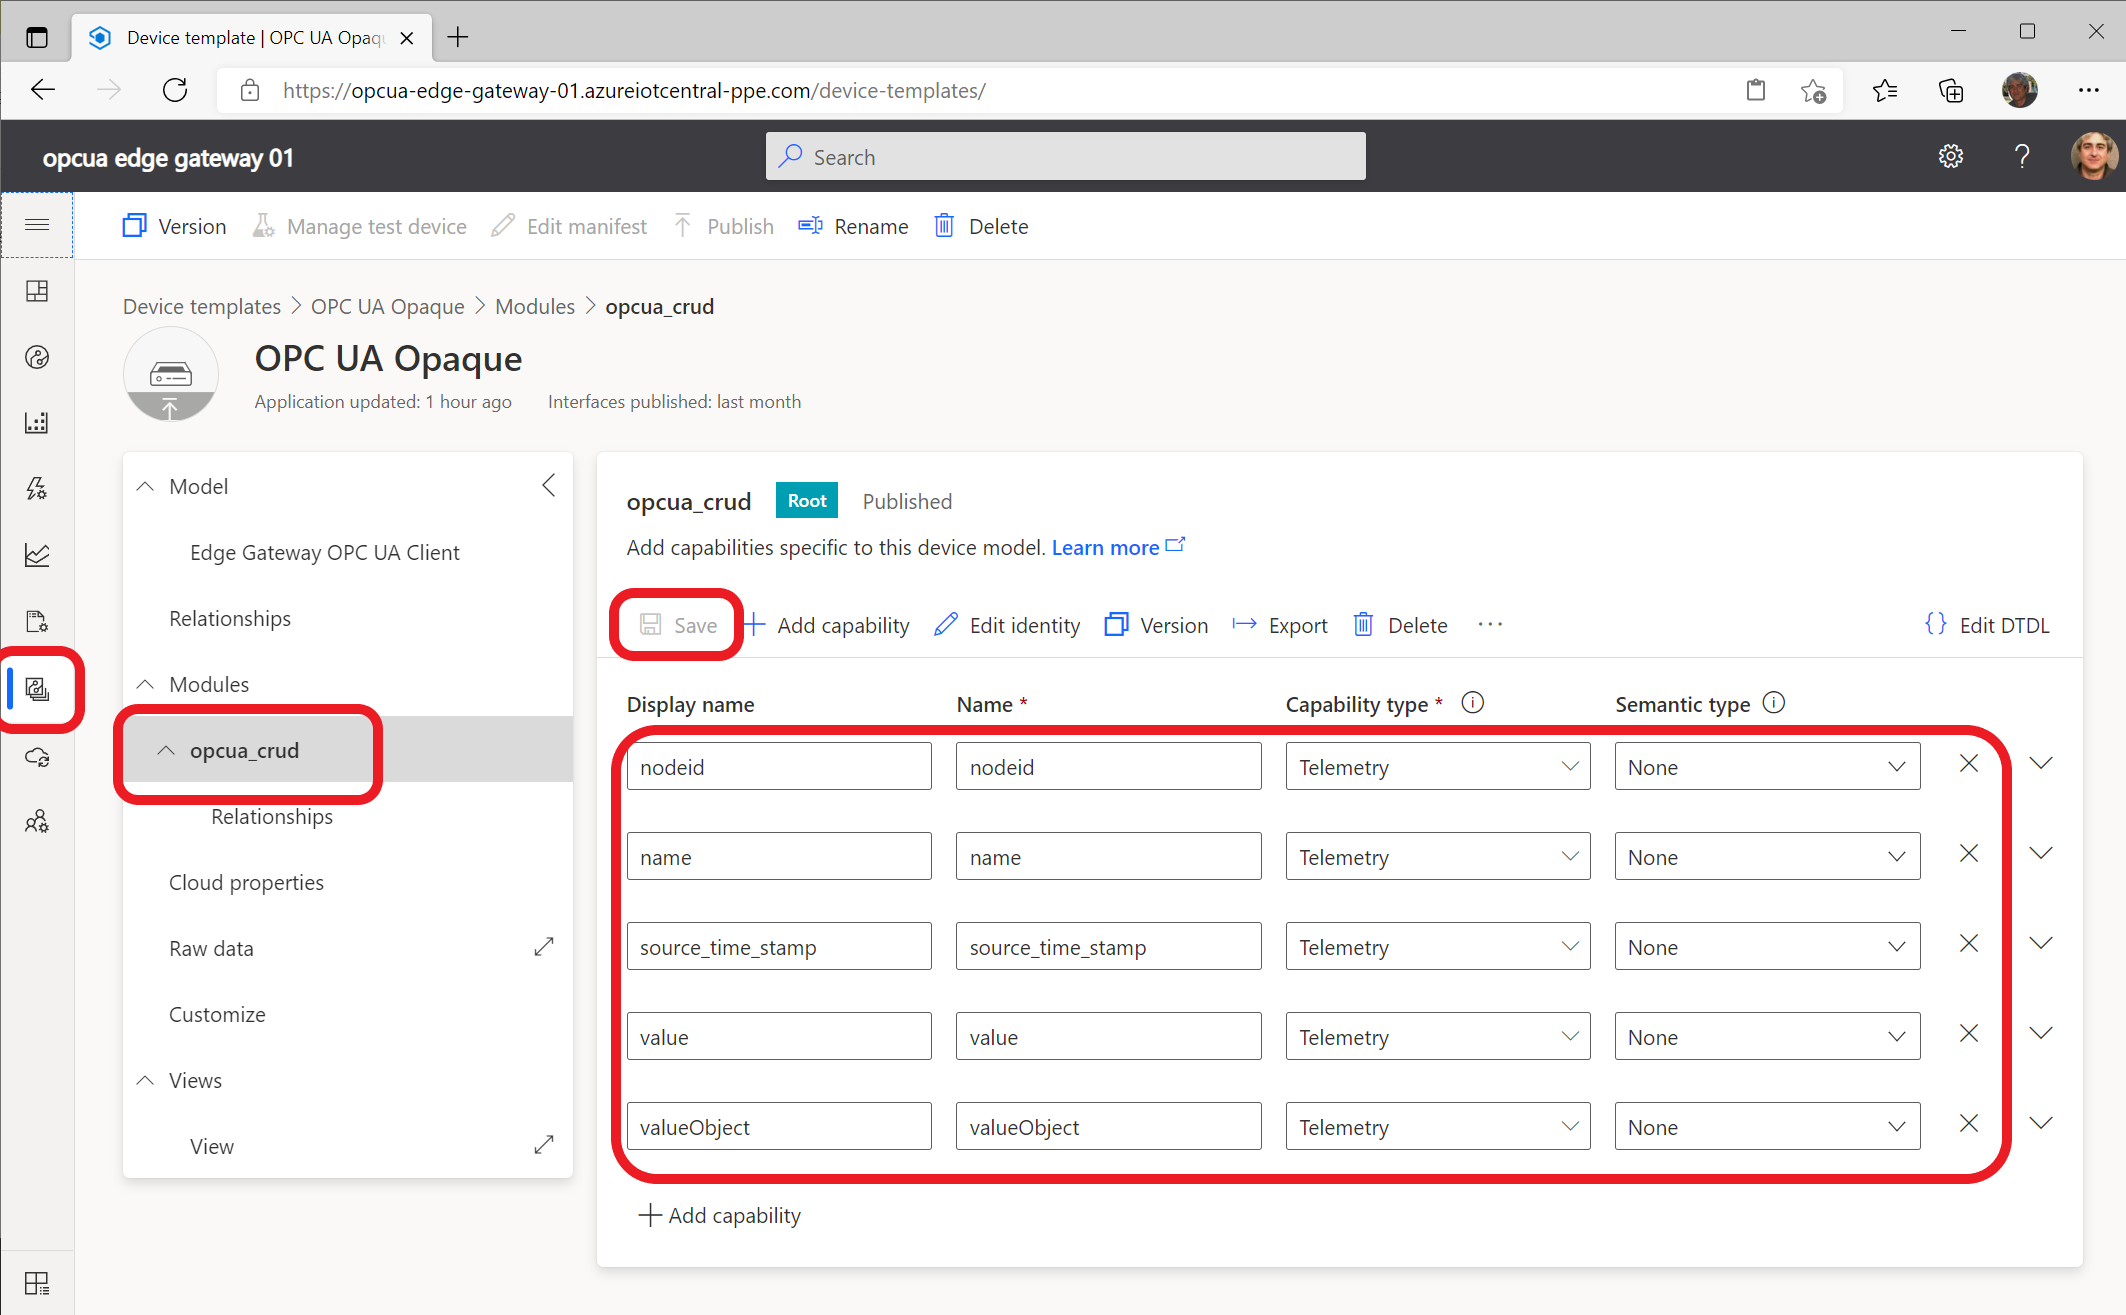
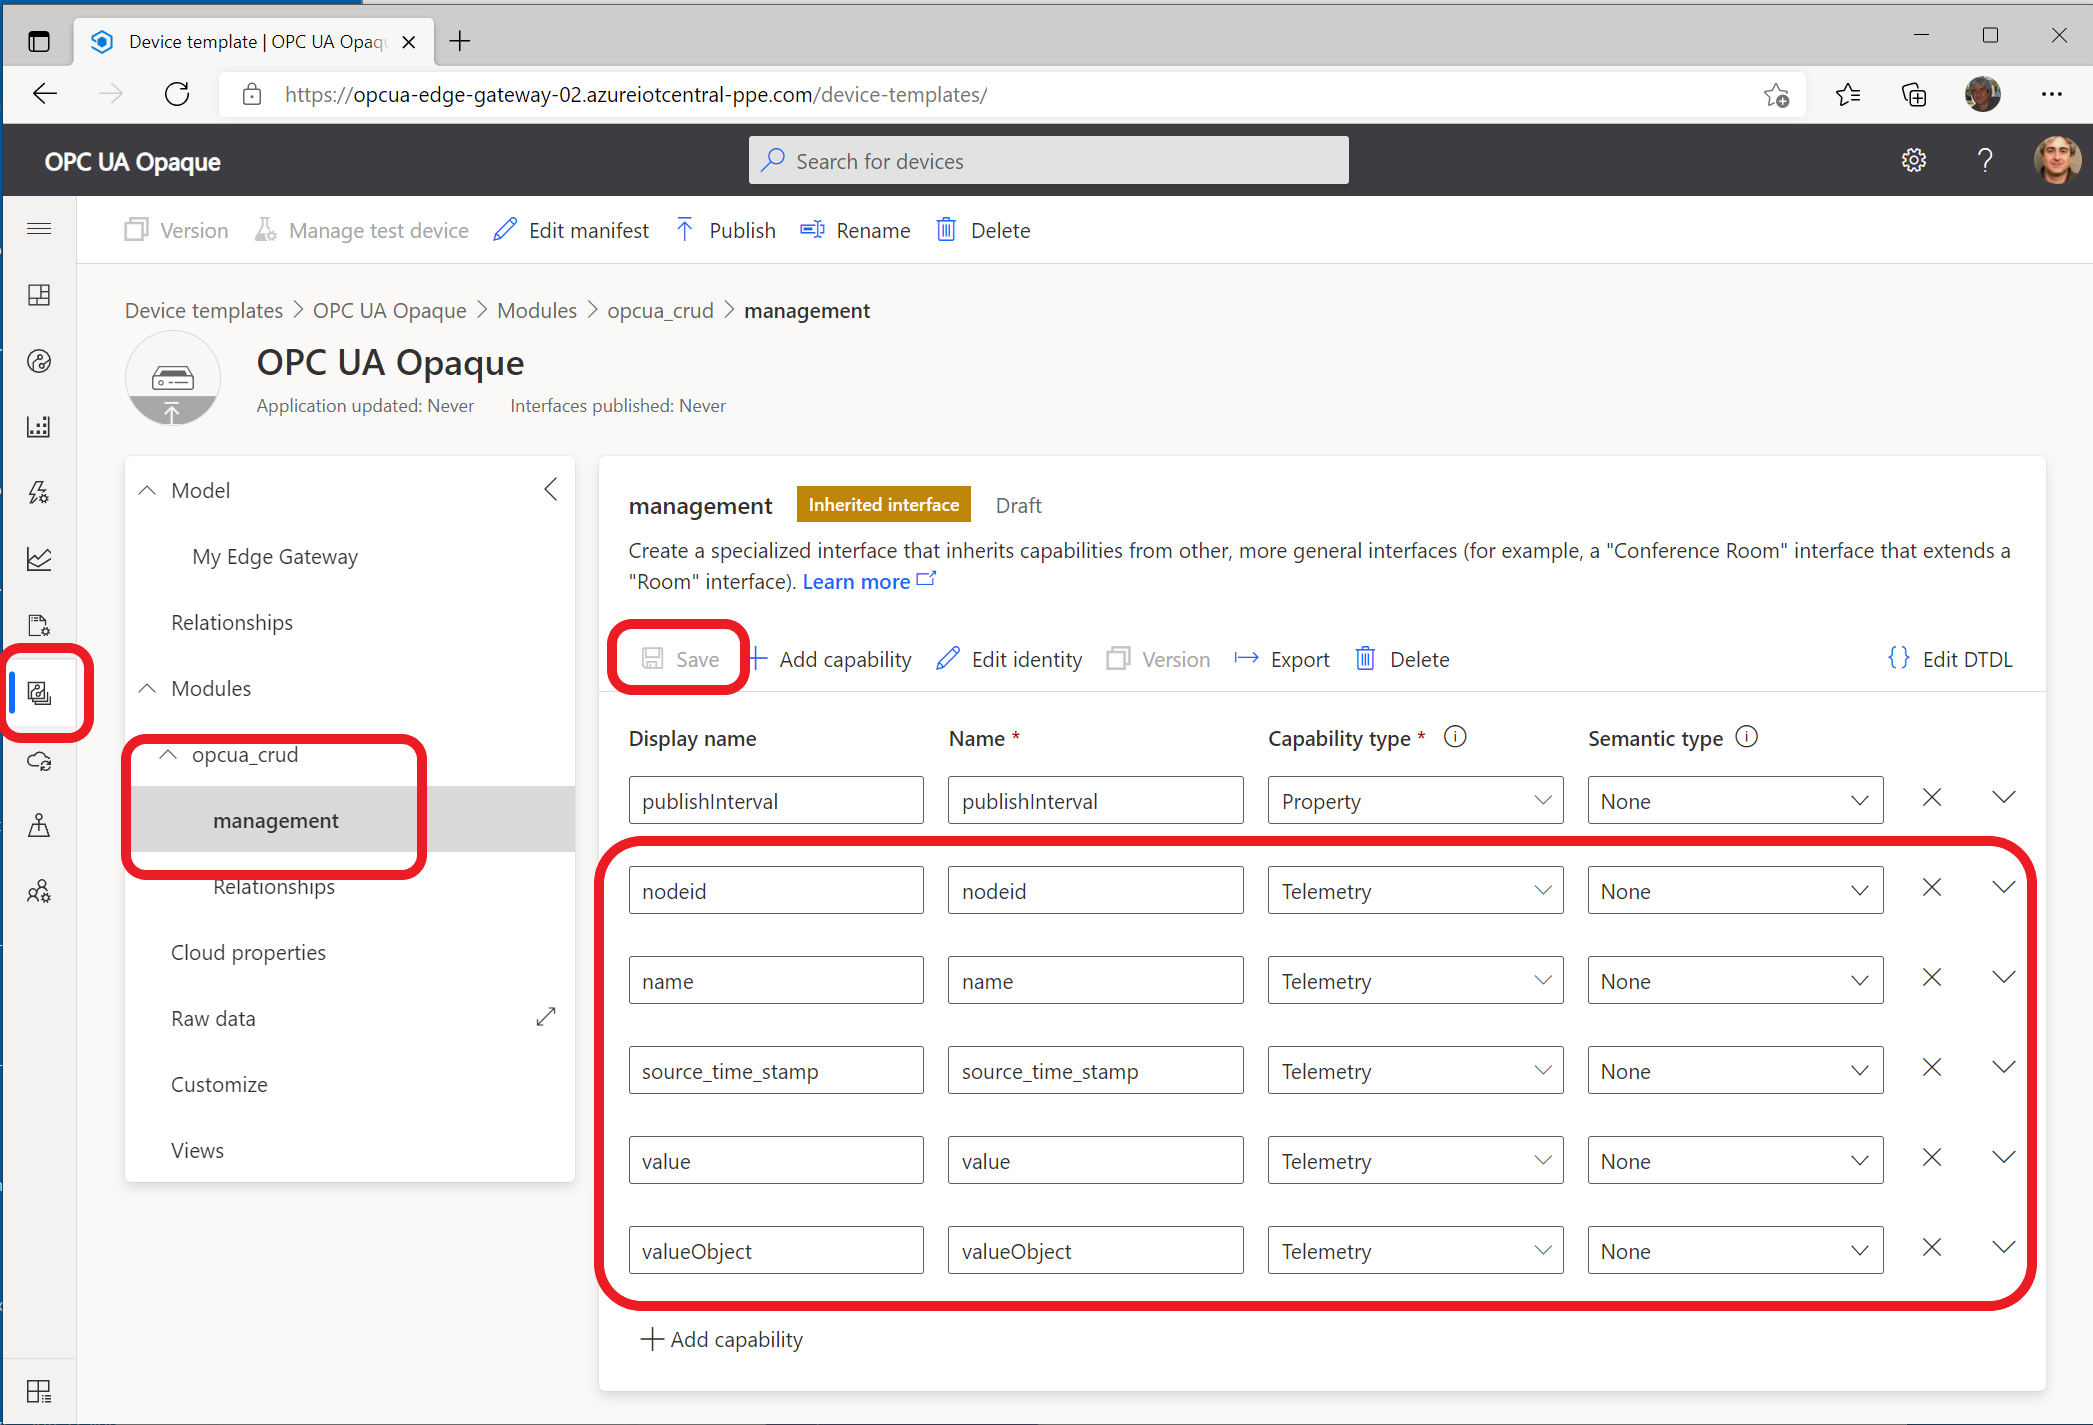
Fixed 10_device_template_capapilities image

diff --git a/iotcentral.md b/iotcentral.md
@@ -17,7 +17,7 @@
 
     [<img src=./assets/09_device_template_upload.png heigth="70%" width="70%">](/assets/09_device_template_upload.png)
 7. Click on **"Create"** button on **"Review"** page
-8. Add the following capabilities to **opcua_crud** module:
+8. Add the following capabilities to **opcua_crud/management** module:
     - Display name: **nodeid**, Name: **nodeid**, Capability type: **Telemetry**, Schema: **String**
     - Display name: **name**, Name: **name**, Capability type: **Telemetry**, Schema: **String**
     - Display name: **source_time_stamp**, Name: **source_time_stamp**, Capability type: **Telemetry**, Schema: **String**
